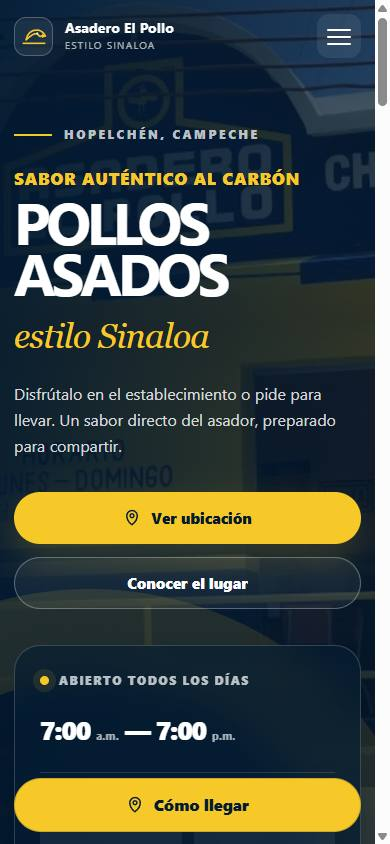
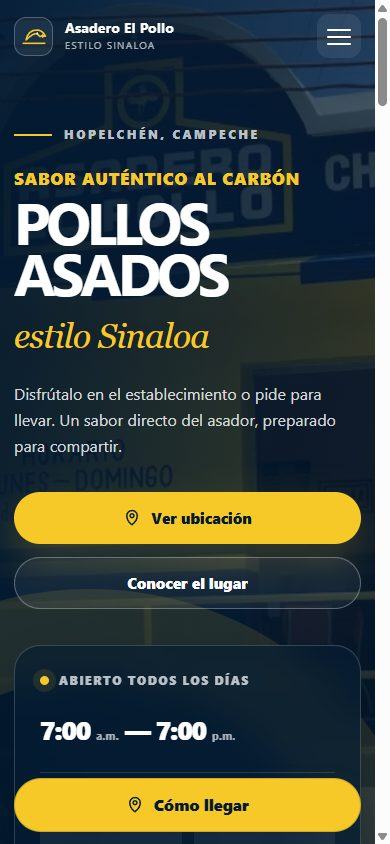
Recaptura las 17 miniaturas desde los sitios en vivo y convierte la rejilla en carrusel horizontal deslizable

diff --git a/script.js b/script.js
@@ -37,6 +37,7 @@
     });
 
     if (empty) { empty.hidden = shown !== 0; }
+    if (rail && rail.resetRail) { rail.resetRail(); }
   }
 
   chips.forEach(function (chip) {
@@ -107,6 +108,124 @@
       }, { threshold: 0.5 });
       nums.forEach(function (n) { io2.observe(n); });
     }
+  }
+
+  /* ================= carrusel: arrastre, flechas y progreso ================= */
+  var rail = document.getElementById('grid');
+  var prevBtn = document.getElementById('railPrev');
+  var nextBtn = document.getElementById('railNext');
+  var track = document.getElementById('railThumb');
+
+  if (rail) {
+    /* los <a> son arrastrables por defecto: el drag nativo cancela el puntero */
+    rail.addEventListener('dragstart', function (e) { e.preventDefault(); });
+
+    /* --- barra de progreso --- */
+    function syncRail() {
+      var max = rail.scrollWidth - rail.clientWidth;
+      var ratio = max > 4 ? rail.scrollLeft / max : 0;
+      if (track) {
+        var w = Math.max(12, (max > 4 ? rail.clientWidth / rail.scrollWidth : 1) * 100);
+        track.style.width = w + '%';
+        track.style.transform = 'translateX(' + ((ratio * (100 - w)) / w * 100) + '%)';
+      }
+      if (prevBtn) { prevBtn.disabled = rail.scrollLeft <= 4; }
+      if (nextBtn) { nextBtn.disabled = rail.scrollLeft >= max - 4; }
+    }
+
+    var rafPending = false;
+    rail.addEventListener('scroll', function () {
+      if (rafPending) { return; }
+      rafPending = true;
+      requestAnimationFrame(function () { rafPending = false; syncRail(); });
+    }, { passive: true });
+
+    window.addEventListener('resize', syncRail);
+    window.addEventListener('load', syncRail);
+    syncRail();
+
+    /* --- flechas: avanzan un ancho de tarjeta --- */
+    function step(dir) {
+      var first = rail.querySelector('.card:not(.is-hidden)');
+      var amount = first ? first.getBoundingClientRect().width + 18 : rail.clientWidth * 0.8;
+      var max = rail.scrollWidth - rail.clientWidth;
+      rail.scrollTo({ left: Math.max(0, Math.min(max, rail.scrollLeft + dir * amount)), behavior: reduce ? 'auto' : 'smooth' });
+    }
+    if (prevBtn) { prevBtn.addEventListener('click', function () { step(-1); }); }
+    if (nextBtn) { nextBtn.addEventListener('click', function () { step(1); }); }
+
+    /* --- arrastre con mouse (en celular el deslizamiento es nativo) --- */
+    var dragging = false, startX = 0, startLeft = 0, moved = 0, lastPos = 0, offsets = null;
+
+    function cardOffsets() {
+      var railRect = rail.getBoundingClientRect();
+      var list = rail.querySelectorAll('.card:not(.is-hidden)');
+      var out = [];
+      for (var i = 0; i < list.length; i++) {
+        out.push(list[i].getBoundingClientRect().left - railRect.left + rail.scrollLeft);
+      }
+      return out;
+    }
+
+    function nearest(pos) {
+      var max = rail.scrollWidth - rail.clientWidth;
+      var best = 0, bestD = Infinity;
+      for (var i = 0; i < offsets.length; i++) {
+        var d = Math.abs(offsets[i] - pos);
+        if (d < bestD) { bestD = d; best = offsets[i]; }
+      }
+      return Math.max(0, Math.min(max, best));
+    }
+
+    rail.addEventListener('mousedown', function (e) {
+      if (e.button !== 0) { return; }
+      dragging = true; moved = 0;
+      startX = e.clientX; startLeft = rail.scrollLeft; lastPos = startLeft;
+      offsets = cardOffsets();
+      rail.classList.add('is-dragging');
+      /* evita el arrastre nativo del <a> y la seleccion de texto */
+      e.preventDefault();
+    });
+
+    window.addEventListener('mousemove', function (e) {
+      if (!dragging) { return; }
+      var dx = e.clientX - startX;
+      if (Math.abs(dx) > 3) { moved = Math.max(moved, Math.abs(dx)); }
+      lastPos = startLeft - dx;
+      rail.scrollLeft = lastPos;
+    });
+
+    var settleTimer;
+    window.addEventListener('mouseup', function () {
+      if (!dragging) { return; }
+      dragging = false;
+      if (moved > 6) {
+        /* el snap se apaga ANTES de soltar is-dragging, si no gana el navegador */
+        rail.classList.add('is-settling');
+        rail.classList.remove('is-dragging');
+        var target = nearest(lastPos);
+        rail.scrollTo({ left: target, behavior: reduce ? 'auto' : 'smooth' });
+        clearTimeout(settleTimer);
+        settleTimer = setTimeout(function () {
+          rail.classList.remove('is-settling');
+          syncRail();
+        }, reduce ? 0 : 450);
+      } else {
+        rail.classList.remove('is-dragging');
+        syncRail();
+      }
+    });
+
+    /* un arrastre no debe abrir el sitio */
+    rail.addEventListener('click', function (e) {
+      if (moved > 6) { e.preventDefault(); e.stopPropagation(); }
+    }, true);
+
+    /* --- al filtrar, vuelve al inicio --- */
+    rail.resetRail = function () {
+      rail.scrollTo({ left: 0, behavior: 'auto' });
+      setTimeout(syncRail, 60);
+    };
   }
 
   /* ================= miniaturas: fallback al gradiente ================= */

diff --git a/index.html b/index.html
@@ -54,7 +54,8 @@
     <ul class="hero-stats">
       <li><strong><span data-count="17">0</span></strong><span>Sitios publicados</span></li>
       <li><strong><span data-count="6">0</span></strong><span>Categorías</span></li>
-      <li><strong><span data-count="17">0</span></strong><span>Con menu y pedidos</span></li>
+        <li><strong><span data-count="17">0</span></strong><span>Hechos a medida</span></li>
+
     </ul>
   </section>
 
@@ -66,7 +67,7 @@
       <div class="marquee-run">
         <a class="phone" href="https://cocteler-a-el-pescadito.pages.dev" target="_blank" rel="noopener" aria-label="Coctelería El Pescadito"><span class="phone-screen"><img src="thumbs/cocteler-a-el-pescadito.jpg" alt="Coctelería El Pescadito" loading="lazy" decoding="async"></span></a>
         <a class="phone" href="https://hotelchenes.pages.dev" target="_blank" rel="noopener" aria-label="Hotel Los Chenes"><span class="phone-screen"><img src="thumbs/hotelchenes.jpg" alt="Hotel Los Chenes" loading="lazy" decoding="async"></span></a>
-        <a class="phone" href="https://la-capilla.pages.dev" target="_blank" rel="noopener" aria-label="La Capilla"><span class="phone-screen"><img src="thumbs/la-capilla.jpg" alt="La Capilla" loading="lazy" decoding="async"></span></a>
+        <a class="phone" href="https://la-capilla-8p4.pages.dev" target="_blank" rel="noopener" aria-label="La Capilla"><span class="phone-screen"><img src="thumbs/la-capilla.jpg" alt="La Capilla" loading="lazy" decoding="async"></span></a>
         <a class="phone" href="https://cygr.pages.dev" target="_blank" rel="noopener" aria-label="CYGR"><span class="phone-screen"><img src="thumbs/cygr.jpg" alt="CYGR" loading="lazy" decoding="async"></span></a>
         <a class="phone" href="https://odentica-hopelchen.pages.dev" target="_blank" rel="noopener" aria-label="Odentica Hopelchén"><span class="phone-screen"><img src="thumbs/odentica-hopelchen.jpg" alt="Odentica Hopelchén" loading="lazy" decoding="async"></span></a>
         <a class="phone" href="https://monster-delicacies.pages.dev" target="_blank" rel="noopener" aria-label="Monster Delicacies"><span class="phone-screen"><img src="thumbs/monster-delicacies.jpg" alt="Monster Delicacies" loading="lazy" decoding="async"></span></a>
@@ -100,7 +101,23 @@
       </nav>
     </div>
 
-    <div class="grid" id="grid">
+    <div class="rail-bar">
+      <p class="rail-hint">
+        <svg viewBox="0 0 24 24" aria-hidden="true"><path d="M8 7l-4 5 4 5"/><path d="M16 7l4 5-4 5"/><path d="M13 5l-2 14"/></svg>
+        Desliza las tarjetas con el dedo o arrástralas con el mouse
+      </p>
+      <div class="rail-nav">
+        <button class="rail-btn" id="railPrev" type="button" aria-label="Ver tarjetas anteriores" disabled>
+          <svg viewBox="0 0 24 24" aria-hidden="true"><path d="M15 5l-7 7 7 7"/></svg>
+        </button>
+        <button class="rail-btn" id="railNext" type="button" aria-label="Ver tarjetas siguientes">
+          <svg viewBox="0 0 24 24" aria-hidden="true"><path d="M9 5l7 7-7 7"/></svg>
+        </button>
+      </div>
+      <div class="rail-track" id="railTrack" aria-hidden="true"><i id="railThumb"></i></div>
+    </div>
+
+    <div class="grid" id="grid" tabindex="0" role="region" aria-label="Galería de sitios. Desliza horizontalmente para ver los 17 proyectos.">
 
       <a class="card" data-cat="restaurantes" data-name="cocteleria el pescadito mariscos camarón" href="https://cocteler-a-el-pescadito.pages.dev" target="_blank" rel="noopener" style="--g1:#0CA9A9;--g2:#086F8C">
         <span class="card-stage">

diff --git a/styles.css b/styles.css
@@ -177,13 +177,47 @@ p{margin:0}
 .chip .n{font-size:.72rem;opacity:.65;font-variant-numeric:tabular-nums}
 .chip.is-active .n{opacity:.75}
 
-/* ================= grid ================= */
-.grid{display:grid;gap:clamp(1rem,2.4vw,1.4rem);grid-template-columns:repeat(auto-fill,minmax(238px,1fr))}
+/* ================= carrusel horizontal ================= */
+.rail-bar{display:flex;align-items:center;gap:1rem;flex-wrap:wrap;margin:1.6rem 0 .2rem}
+.rail-hint{
+  display:inline-flex;align-items:center;gap:.5rem;margin:0;margin-right:auto;
+  color:var(--muted);font-size:.82rem;
+}
+.rail-hint svg{width:17px;height:17px;flex:0 0 auto;fill:none;stroke:currentColor;stroke-width:1.9;stroke-linecap:round;stroke-linejoin:round;opacity:.8}
+.rail-nav{display:flex;gap:.45rem}
+.rail-btn{
+  display:grid;place-items:center;width:40px;height:40px;flex:0 0 auto;
+  border-radius:50%;cursor:pointer;
+  background:rgba(255,255,255,.05);border:1px solid var(--line);color:var(--txt);
+  transition:all .25s var(--ease);
+}
+.rail-btn svg{width:19px;height:19px;fill:none;stroke:currentColor;stroke-width:2.1;stroke-linecap:round;stroke-linejoin:round}
+.rail-btn:hover:not(:disabled){background:rgba(255,255,255,.1);border-color:var(--line-2);transform:translateY(-2px)}
+.rail-btn:disabled{opacity:.3;cursor:not-allowed}
+.rail-track{flex:1 0 100%;height:4px;border-radius:99px;background:rgba(255,255,255,.08);overflow:hidden}
+.rail-track i{display:block;height:100%;width:22%;border-radius:99px;background:linear-gradient(90deg,var(--acc),var(--acc-2));transform-origin:left;transition:transform .2s var(--ease),width .3s var(--ease)}
+
+.grid{
+  display:flex;gap:clamp(.9rem,2vw,1.3rem);
+  overflow-x:auto;overflow-y:hidden;
+  scroll-snap-type:x proximity;scroll-behavior:smooth;
+  padding:.5rem .25rem 1.5rem;
+  margin-inline:-.25rem;
+  scrollbar-width:none;-ms-overflow-style:none;-webkit-overflow-scrolling:touch;
+  cursor:grab;
+}
+.grid::-webkit-scrollbar{display:none}
+.grid.is-dragging{cursor:grabbing;scroll-snap-type:none;scroll-behavior:auto;user-select:none;-webkit-user-select:none}
+.grid.is-settling{scroll-snap-type:none}
+.grid:focus-visible{outline:2px solid var(--acc);outline-offset:4px;border-radius:var(--r)}
 .card{
+  flex:0 0 clamp(230px,72vw,282px);min-width:0;
+  scroll-snap-align:start;
   position:relative;display:flex;flex-direction:column;overflow:hidden;
   border-radius:var(--r);border:1px solid var(--line);background:var(--surf);
   transition:transform .4s var(--ease),border-color .4s var(--ease),box-shadow .4s var(--ease);
 }
+@media (min-width:640px){ .card{flex-basis:clamp(250px,30vw,300px)} }
 .card::after{
   content:"";position:absolute;inset:0;border-radius:var(--r);pointer-events:none;
   background:radial-gradient(400px circle at var(--mx,50%) var(--my,0%),rgba(255,255,255,.07),transparent 45%);
@@ -293,7 +327,7 @@ p{margin:0}
   .topnav{display:none}
   .topbar{padding:.68rem .9rem}
   .brand-txt small{display:none}
-  .grid{grid-template-columns:repeat(auto-fill,minmax(200px,1fr));gap:.8rem}
+  .grid{gap:.8rem;padding-bottom:1.2rem}
   .card-stage{padding:.85rem .7rem}
   .card-body{padding:.9rem .95rem 1rem}
   .card h3{font-size:1.03rem}
@@ -302,7 +336,8 @@ p{margin:0}
   .section-title{font-size:1.6rem}
 }
 @media (max-width:400px){
-  .grid{grid-template-columns:1fr}
+  .card{flex-basis:66vw}
+  .rail-btn{width:36px;height:36px}
 }
 
 @media (prefers-reduced-motion:reduce){
